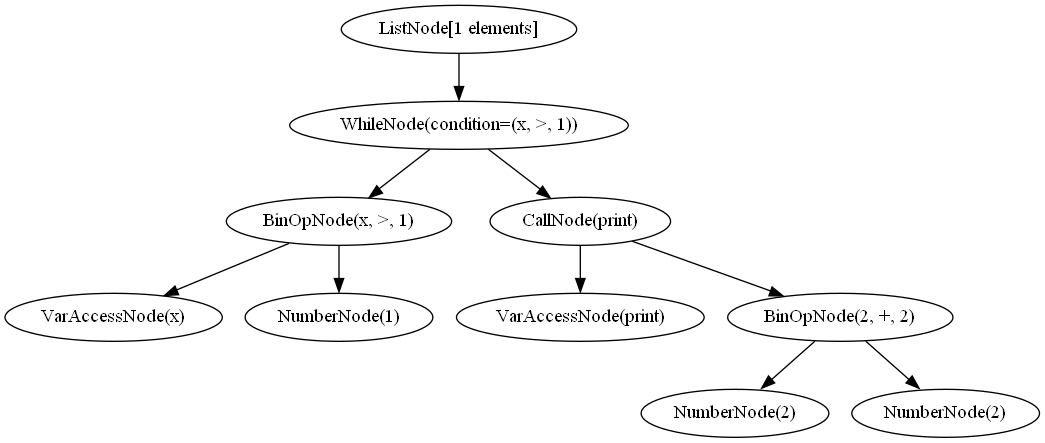
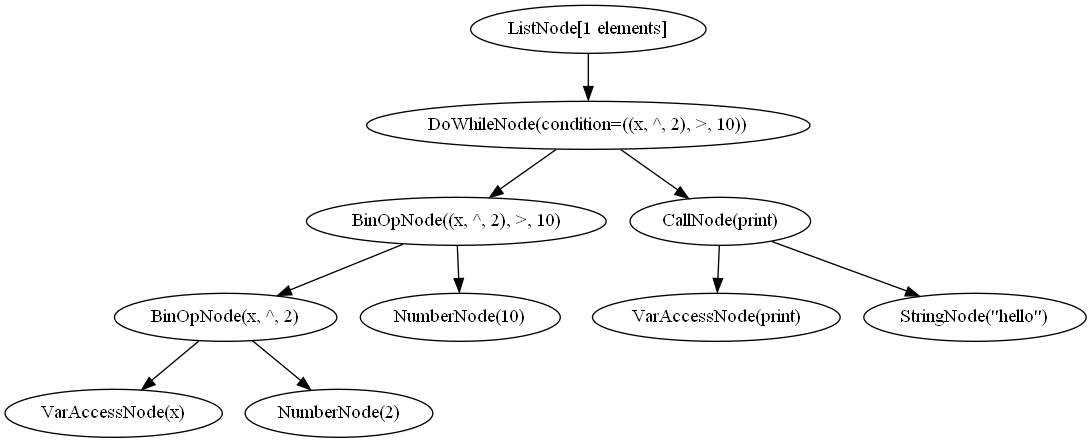
doWhileExpr implemented

diff --git a/main.py b/main.py
@@ -8,8 +8,9 @@ from Code.ConvertToGraphviz import *
 from Code.radenn_nodes import *
 
 input_stream=InputStream("""
-while (x>1)
-    print(2+2)
+do 
+    print("hello")
+ while (x^2>10)
 """)
 
 lexer=RADENNLexer(input_stream)
@@ -160,6 +161,8 @@ def atom(node:TreeNode):
         return forExpr(node.children[0])
     if (node.children[0].val).lower()=="whileexpr":
         return whileExpr(node.children[0])
+    if (node.children[0].val).lower()=="dowhileexpr":
+        return doWhileExpr(node.children[0])
     return NumberNode(node.children[0].val)
 
 def listExpr(node:TreeNode):
@@ -230,6 +233,18 @@ def whileExpr(node:TreeNode):
     else:
         body_node=statements(node.children[2])
     return WhileNode(cond_node,body_node)
+
+def doWhileExpr(node:TreeNode):
+    body_node=None
+    if (node.children[1].val).lower()=="statement":
+        body_node=statement(node.children[1])
+    else:
+        body_node=statement(node.children[1])
+    cond_node=expr(node.children[3])
+    return DoWhileNode(body_node,cond_node)
+    
+
+
 ast:ListNode=start(custom_tree_root)
 # print(type(ast.element_nodes[0]))
 dot = draw_ast(ast)
